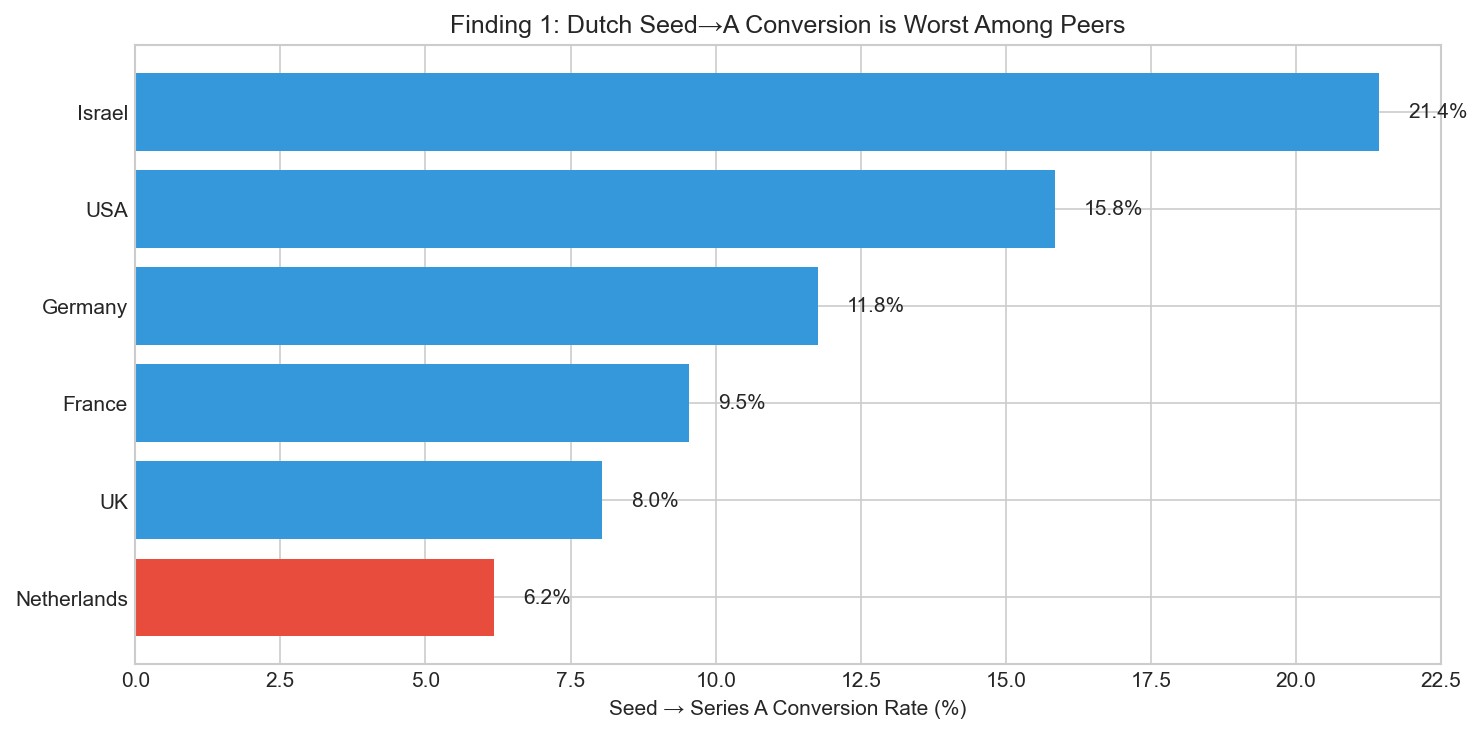
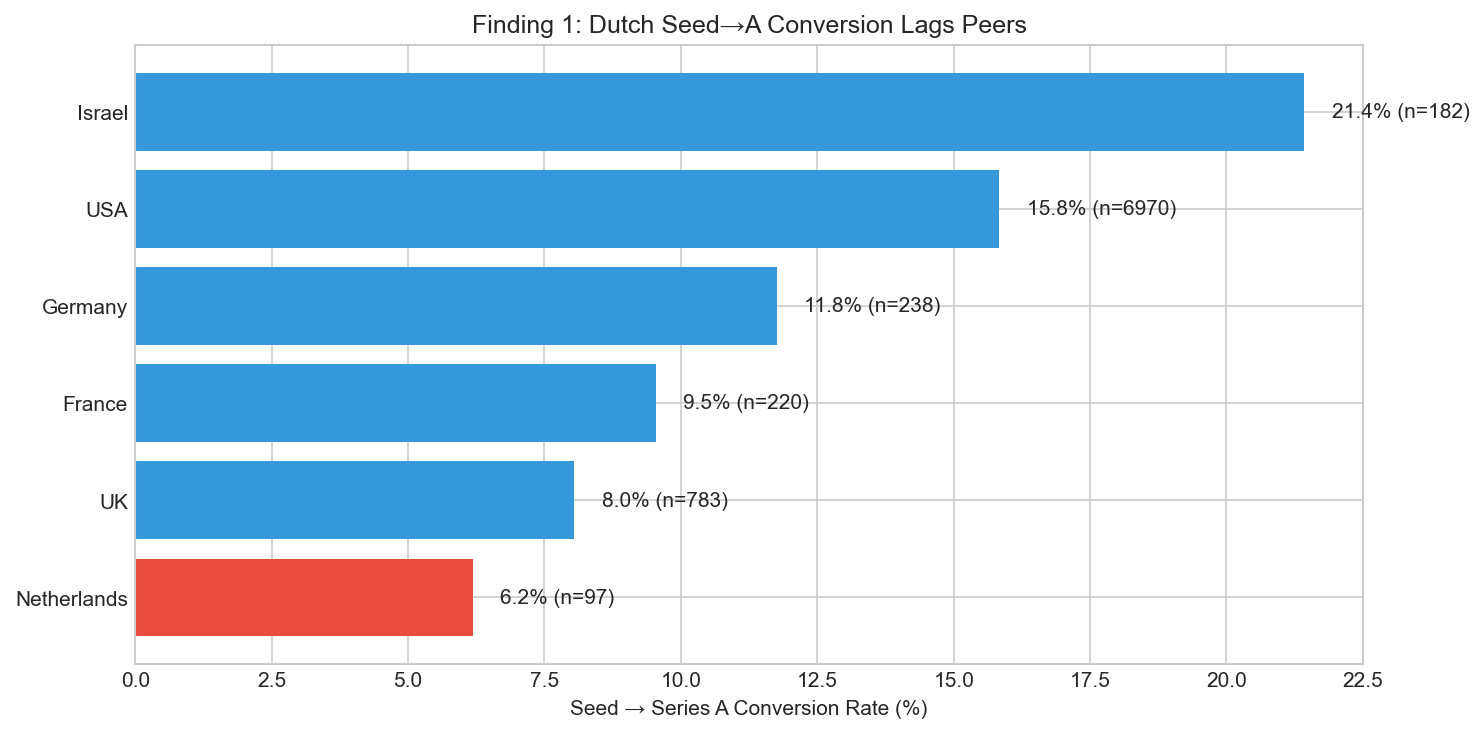
fix: correct Seed→A comparison and add full funnel analysis
- Updated report to show accurate comparison: NL 6.2% vs European peers 9.0%
  (previously overclaimed "worst in Europe")
- Regenerated graduation gap chart with corrected title
- Added full funnel analysis (Seed→A, A→B, B→C, C→D) to legacy folder
- Key insight: NL comparable at A→B, biggest gaps at Seed→A and B→C

diff --git a/task-1-analysis/report.md b/task-1-analysis/report.md
@@ -14,7 +14,7 @@ Analyzing 48,000 companies globally (305 Dutch), I found three patterns that cha
 
 ### 1. The Graduation Gap
 
-Dutch Seed→Series A conversion is **6.2%** vs 16.1% USA. Only 6 of 97 Dutch seed companies reached Series A. The bottleneck isn't seed funding—it's what happens in the 12-24 months after.
+Dutch Seed→Series A conversion is **6.2%**—below European peers UK/Germany/France (9.0%) and far behind USA (15.8%) and Israel (21.4%). Only 6 of 97 Dutch seed companies reached Series A. The bottleneck isn't seed funding—it's what happens in the 12-24 months after.
 
 ![Graduation Gap](figures/finding1_graduation_gap.png)
 
